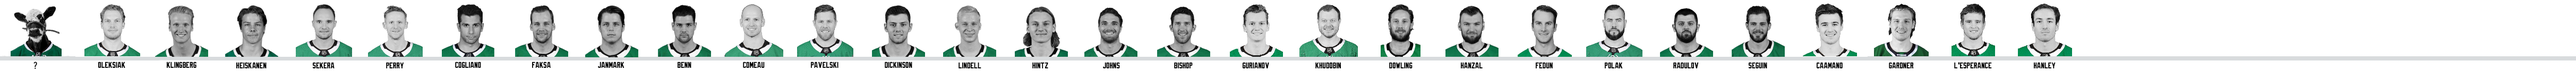
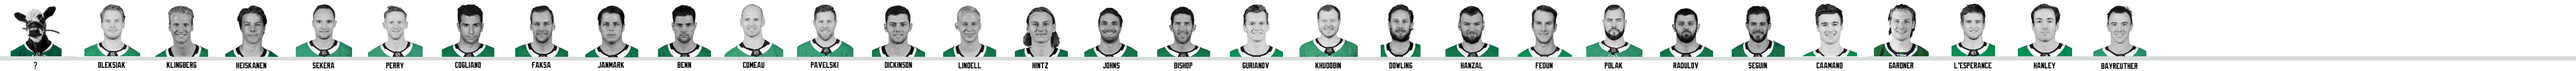
Roster Update Nov 9
Adding Bayreuther to player and flair sheets.

Changed region(s): [[0.8093, 0.0889, 0.8404, 0.8], [0.8093, 0.8889, 0.8404, 0.9778]]

diff --git a/dallasstars.css b/dallasstars.css
@@ -2397,7 +2397,8 @@ a[href*="#lhtlight"] { top: 35; right: 25px; transition: all 200ms ease; }
 .side .md  a[href$="17"] { background-position: -2255px 0; }
 .side .md  a[href$="49"] { background-position: -2340px 0; }
 .side .md  a[href$="38"] { background-position: -2425px 0; }
-.side .md  a[href$="49"] { background-position: -2510px 0; }
+.side .md  a[href$="39"] { background-position: -2510px 0; }
+.side .md  a[href$="44"] { background-position: -2595px 0; }
 
 /* Sidebar Menu Icons */
 
@@ -2484,17 +2485,17 @@ div.tagline:hover > span.flair:before {
 -------- */
 .flair-whitetexas:before { background-position: -30px 0; }
 .flair-greentexas:before { background-position: -60px 0; }
-.flair-circle:before { background-position: -360px 0; }
-.flair-dallas:before { background-position: -90px 0; }
-.flair-mooterus:before { background-position: -120px 0; }
-.flair-northstars:before { background-position: -150px 0; }
-.flair-circlens:before { background-position: -180px 0; }
-.flair-texasstars:before { background-position: -210px 0; }
-.flair-logoflag:before { background-position: -240px 0; }
-.flair-texas:before { background-position: -270px 0; }
-.flair-starsold:before { background-position: -300px 0; }
-.flair-texasd:before { background-position: -390px 0; }
-.flair-pevs:before { background-position: -420px 0; }
+.flair-circle:before { background-position: -90px 0; }
+.flair-dallas:before { background-position: -120px 0; }
+.flair-mooterus:before { background-position: -150px 0; }
+.flair-northstars:before { background-position: -180px 0; }
+.flair-circlens:before { background-position: -210px 0; }
+.flair-texasstars:before { background-position: -240px 0; }
+.flair-logoflag:before { background-position: -270px 0; }
+.flair-texas:before { background-position: -300px 0; }
+.flair-starsold:before { background-position: -330px 0; }
+.flair-texasd:before { background-position: -360px 0; }
+.flair-pevs:before { background-position: -390px 0; }
 .flair-texas25:before { background-position: -420px 0; }
 
 /* People
@@ -2551,6 +2552,7 @@ div.tagline:hover > span.flair:before {
 .flair-pf49:before, .comment .md a[href$="49"] { background-position: -750px -90px; }
 .flair-pf38:before, .comment .md a[href$="38"] { background-position: -780px -90px; }
 .flair-pf39:before, .comment .md a[href$="39"] { background-position: -810px -90px; }
+.flair-pf39:before, .comment .md a[href$="44"] { background-position: -840px -90px; }
 
 .flair-pn01:before { background-position: 0 -150px; }
 .flair-pn02:before { background-position: -30px -150px; }
